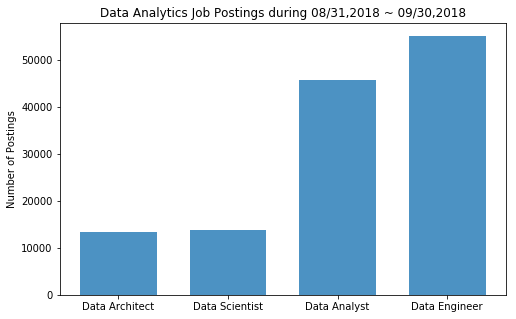
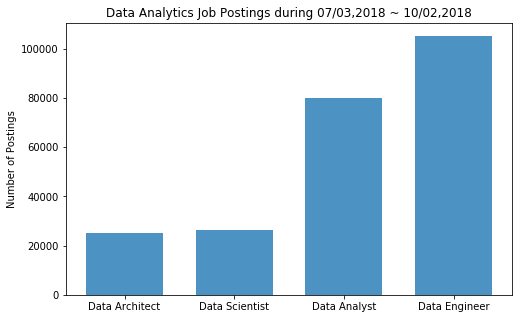
update

diff --git a/README.md b/README.md
@@ -6,12 +6,12 @@
 
 
 - From the curiosity, I developed a Web Scrapper for www.indeed.com, which is the largest job search platform, to automatically generate and visualize information about data analytics jobs as follows:
-    1. How Many New Data Analytics Jobs are There?
+    1. How Many Data Analytics Jobs are There?
     2. Data Analytics Job Map
     3. Required Skills for Data Analytics
     4. Data Analytics Job Characteristics
-        - 4.1 Salary
-        - 4.2 Company Rating
+        - 4.1 Salary by Job
+        - 4.2 Salary by Location
         - 4.3 Word Cloud for Job Descriptions
         - 4.4 Saving the job list as a csv file
 
@@ -25,22 +25,25 @@
 (https://www.betterbuys.com/bi/comparing-data-science-roles/)
 
 
-## How Many New Data Analytics Jobs Are in the United States? (as of 9/30/2018)
+## How Many Data Analytics Jobs are in the United States? (as of 10/2/2018)
 ![](images/data-analytics-job-counts.png)
 
 
-## Data Analytics Job Map (as of 9/30/2018)
+## Data Analytics Job Map (as of 10/2/2018)
 ![](images/data-analytics-job-map.png)
 
 
-## Required Skills for Data Analytics (as of 9/30/2018)
+## Required Skills for Data Analytics (as of 10/2/2018)
 ![](images/data-analytics-job-skills.png)
 
 
-## How about Working for Data Science Companies? (as of 9/30/2018)
-![](images/data-analytics-company-ratings.png)
+## How Much is Data Analytics Job Salary? (as of 10/2/2018)
+![](images/data-analytics-job-salary.png)
+
+## Data Analytics Job Salary by Location (as of 10/2/2018)
+![](images/data-analytics-salary-location.png)
 
 
-## Word Cloud for Data Scientist Job Descriptions(as of 9/30/2018)
+## Word Cloud for Data Scientist Job Descriptions(as of 10/2/2018)
 ![](images/data-analytics-word-cloud.png)
 
